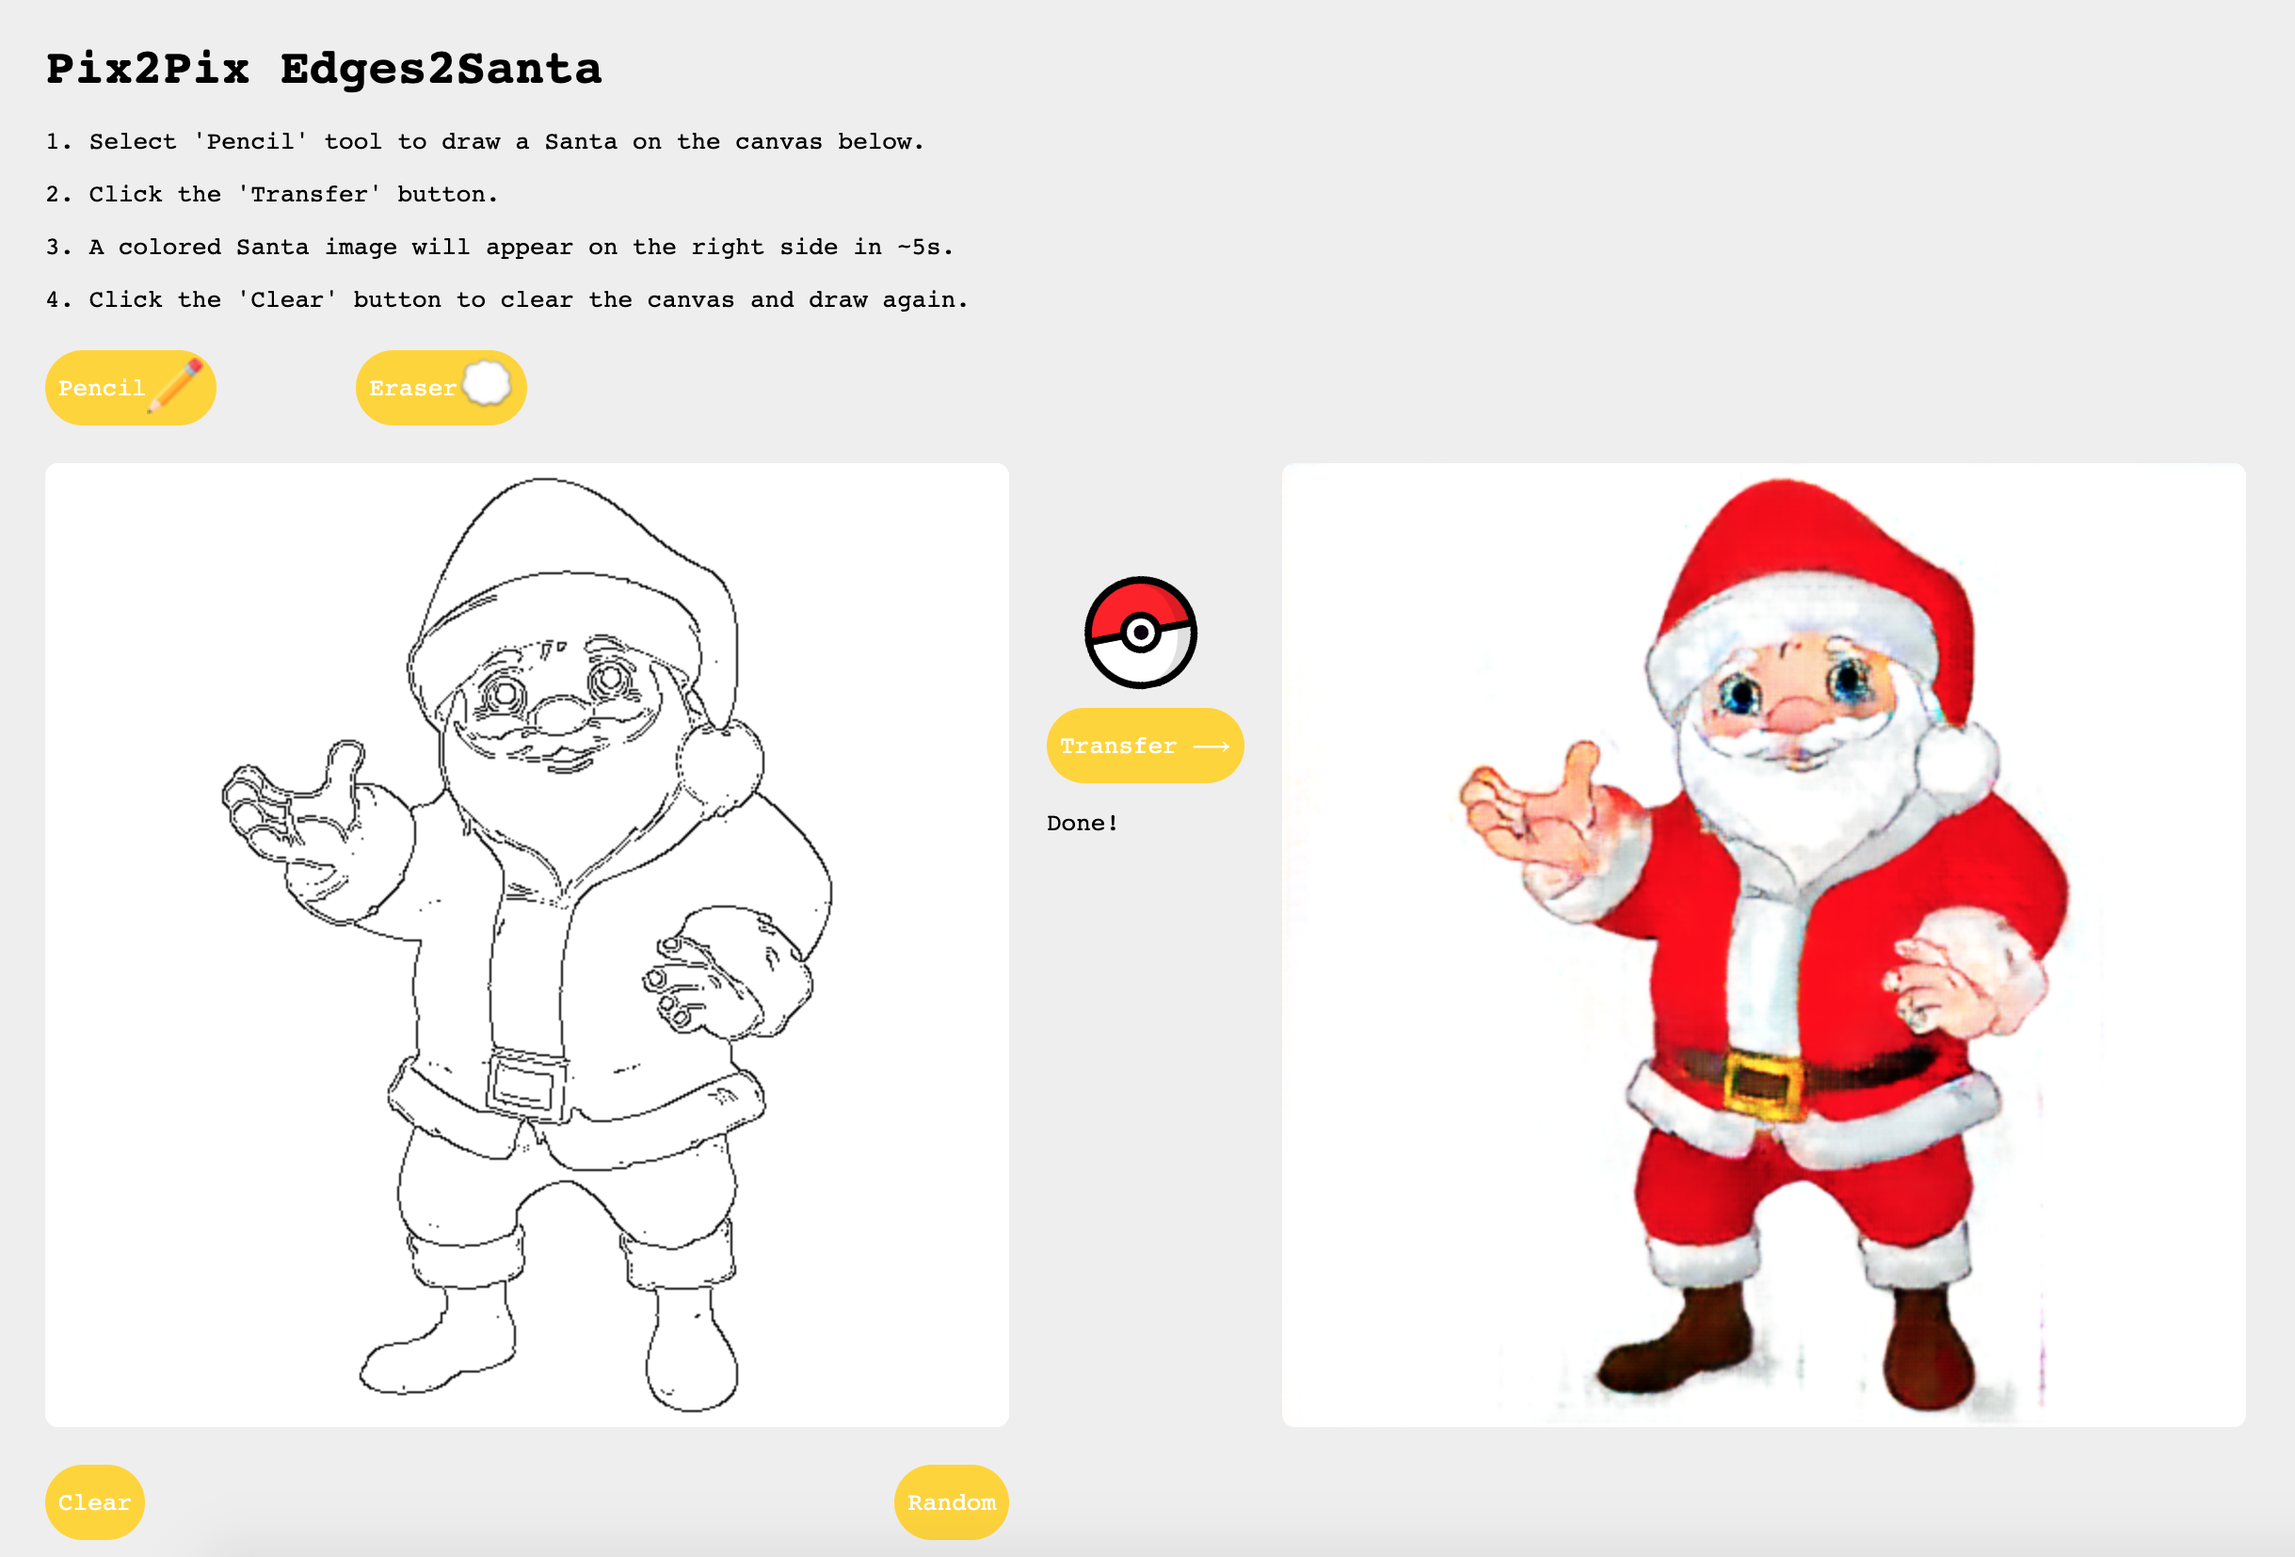
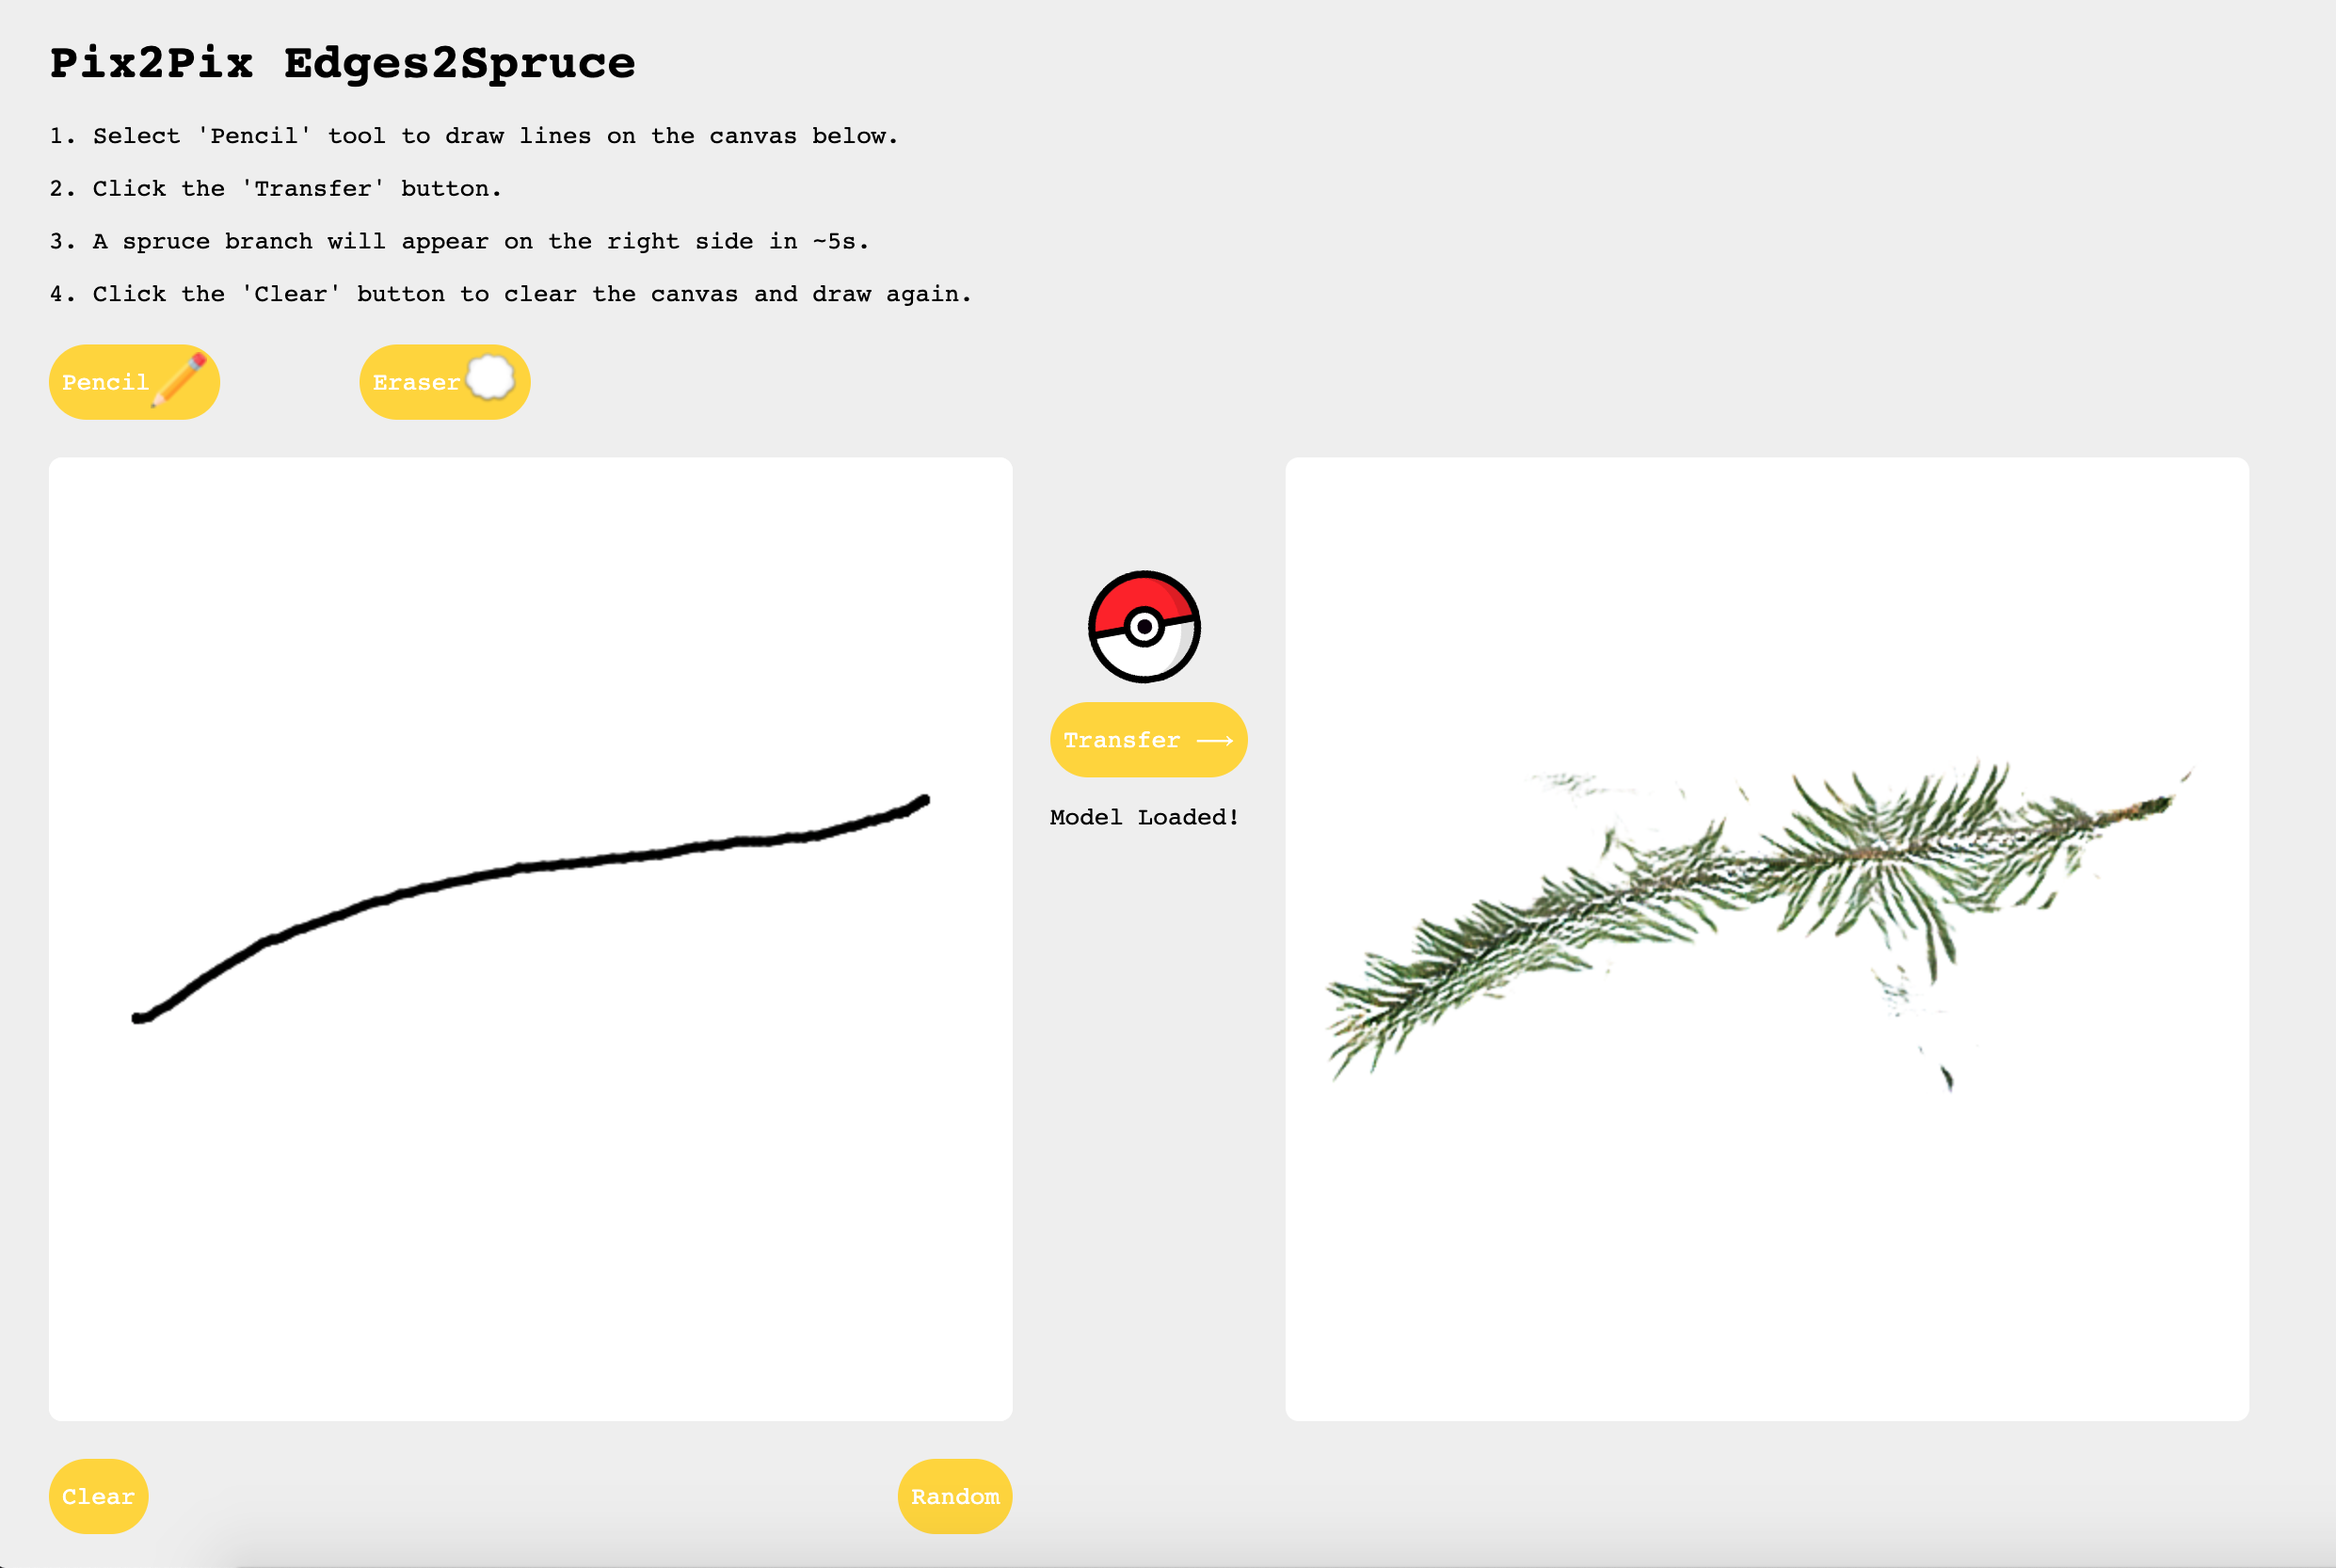
Change description and screenshot

diff --git a/index.html b/index.html
@@ -9,10 +9,10 @@
   </head>
   <body>
     <div id="textContainer">
-      <h1>Pix2Pix Edges2Santa</h1>
-      <p>1. Select 'Pencil' tool to draw a Santa on the canvas below.</p>
+      <h1>Pix2Pix Edges2Spruce</h1>
+      <p>1. Select 'Pencil' tool to draw lines on the canvas below.</p>
       <p>2. Click the 'Transfer' button.</p>
-      <p>3. A colored Santa image will appear on the right side in ~5s.</p>
+      <p>3. A spruce branch will appear on the right side in ~5s.</p>
       <p>4. Click the 'Clear' button to clear the canvas and draw again.</p>
     </div>
     <div id="toolContainer" class="flex flex-space-between">

diff --git a/README.md b/README.md
@@ -1,6 +1,6 @@
-# Edges2Santa pix2pix
+# Edges2Spruce pix2pix
 
-Pix2pix model trained to generate 512 px X 512 px santas! All credit goes to [yining1023](https://github.com/yining1023) and the original [pix2pix_tensorflowjs_lite repository](https://github.com/yining1023/pix2pix_tensorflowjs_lite), the only modifications made is training a new model, and accomodating 512 x 512 images in the code.
+Pix2pix model trained to generate 512 px X 512 px spruce branches! All credit goes to [yining1023](https://github.com/yining1023) and the original [pix2pix_tensorflowjs_lite repository](https://github.com/yining1023/pix2pix_tensorflowjs_lite), the only modifications made is training a new model, and accomodating 512 x 512 images in the code.
 
 <img src="images/screenshot.png" alt="demo">
 
